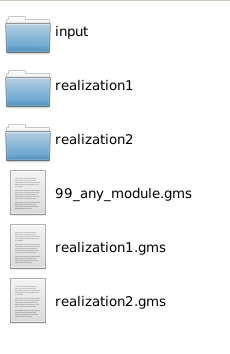
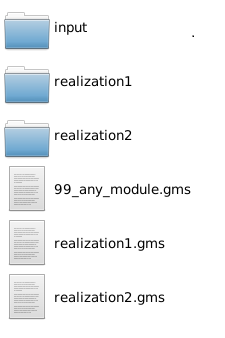
update t02_gams.md

diff --git a/_tutorials/t02_gams.md b/_tutorials/t02_gams.md
@@ -3,9 +3,9 @@ layout: tutorial
 title:  GAMS code, modules & realizations
 image: assets/images/generic/pic02.jpg
 shortID: gams
-lastUpdated:   2025-06-14
+lastUpdated:   2026-06-12
 model: MAgPIE
-modelVersion: 4.10.1
+modelVersion: 4.14.0
 author:
   - kk
   - fb
@@ -14,8 +14,8 @@ author:
   - iw
 level: 2
 requirements:
-  - GAMS Installed
-  - MAgPIE clone in local machine
+  - Local copy of the MAgPIE model (https://github.com/magpiemodel/magpie)
+  - Have GAMS installed
 lessonsContent:
   - Navigate through the GAMS code of MAgPIE
   - Understand the structure of modules and realizations
@@ -27,16 +27,16 @@ published: true
 
 MAgPIE (Model for Agricultural Production and its Impacts on the
 Environment) is a modular open-source framework for modeling global
-land systems. Before looking into the code structure, we first introduce 
+land systems. Before looking into the code structure, we first introduce
 the concept of ‘modules‘, the building blocks of MAgPIE.
 
 The MAgPIE model structure is built upon the idea that every module
-is autonomous and interacts through a **clearly defined interface** 
+is autonomous and interacts through a **clearly defined interface**
 with other modules. This reflects the idea that every module represents
 a separate part of the model that could be represented in a simple or more
-sophisticated manner without relying on other modules. A complete description 
-of module interdependencies is available in the 
-[model documentation](https://rse.pik-potsdam.de/doc/magpie/4.10.1/).
+sophisticated manner without relying on other modules. A complete description
+of module interdependencies is available in the
+[model documentation](https://rse.pik-potsdam.de/doc/magpie/4.14.0/).
 
 Below, we briefly highlight the ‘main line’ of module interdependence:
 
@@ -49,9 +49,9 @@ Below, we briefly highlight the ‘main line’ of module interdependence:
 - Demand patterns are translated into production patterns via trade flows.
 - Production, combined with biophysical yield data, defines cropping patterns
   and informs land-use decisions.
-  
-Importantly, these are not one-way dependencies: e.g., constraints in 
-land availability can influence food consumption patterns through rising 
+
+Importantly, these are not one-way dependencies: e.g., constraints in
+land availability can influence food consumption patterns through rising
 food prices across different commodities. Associated costs of
 different activities are fed into the goal function of the cost
 module, which guides optimization and is thereby central for the model.
@@ -64,14 +64,14 @@ includes:
 ## The MAgPIE GAMS code: Model components
 
 The core of the MAgPIE model is written in GAMS. For the model execution,
-all parts of the code are automatically put into a single file, the `full.gms`. 
+all parts of the code are automatically put into a single file, the `full.gms`.
 
-The `modules` folder stores and organizes the main code components, following 
+The `modules` folder stores and organizes the main code components, following
 the thematic structure defined by the modular architecture of MAgPIE.
 Each subfolder within `modules` represents a specific model component and can contain
-multiple realizations — different implementations of that component. Only one 
-realization per module is included in the final model execution by being 
-inserted into the `full.gms`. The choice of realizations is determined by the configuration 
+multiple realizations — different implementations of that component. Only one
+realization per module is included in the final model execution by being
+inserted into the `full.gms`. The choice of realizations is determined by the configuration
 settings, defined in `default.cfg` or specified in the run start scripts.   
 
 ###  Structure of a module
@@ -89,8 +89,8 @@ modules and the `include.gms` file that ensures the inclusion of all modules int
   - Several `[realization_name].gms` files with the realization description
     and include statements to the specific source code
 
-This structure makes it easy to extend the model: new realizations can be added 
-by following the same template (more in [this tutorial](t10_changeCode.md)).
+This structure makes it easy to extend the model: new realizations can be added
+by following the same template (more in [this tutorial](/tutorials/t10-changecode)).
 
 ### Structure within each realization
 
@@ -118,7 +118,7 @@ Note that not all gms-files are required in every realization.
 ## Coding etiquette: Variable and parameter naming
 
 Each MAgPIE module is designed to be self-contained with well-defined interfaces.
-In this sense, realizations are replaceable within a module, since all realizations 
+In this sense, realizations are replaceable within a module, since all realizations
 of a module have to deliver/interact with the same interfaces.
 This is ensured by defined rules for variable and parameter naming.
 